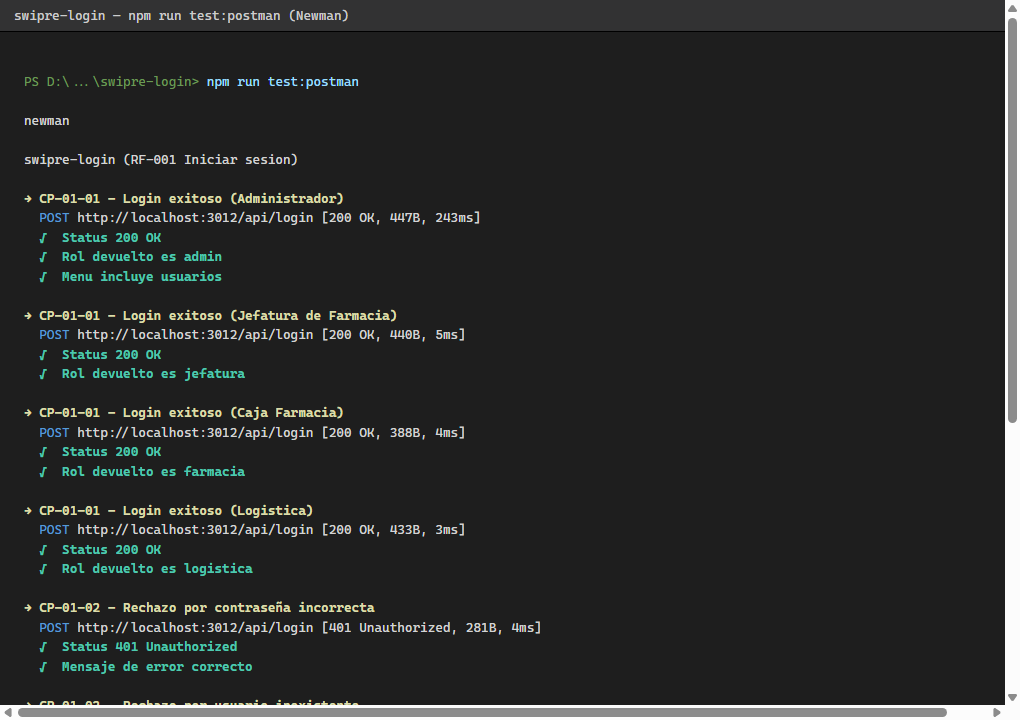
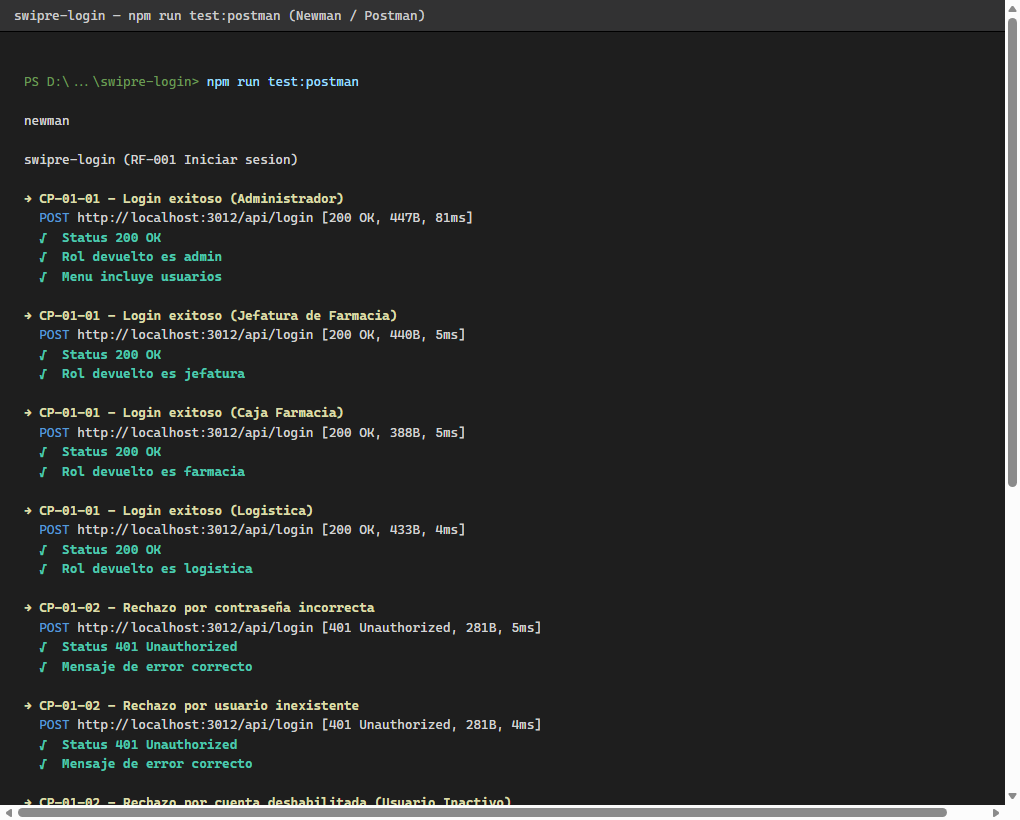
Completar RF-001: agregar CP-01-03 (autorizacion por rol, HTTP 403) con Vitest y Postman/Newman

Changed region(s): [[0.0, 0.0917, 0.5471, 0.9472], [0.0, 0.0, 0.9725, 0.0611], [0.0, 0.9472, 1.0, 1.0]]

diff --git a/evidencia/resultado-postman.html b/evidencia/resultado-postman.html
@@ -16,7 +16,7 @@
 </style>
 </head>
 <body>
-<div class="titlebar">swipre-login — npm run test:postman (Newman)</div>
+<div class="titlebar">swipre-login — npm run test:postman (Newman / Postman)</div>
 <div class="term">
 <span class="prompt">PS D:\...\swipre-login&gt;</span> <span class="cmd">npm run test:postman</span>
 
@@ -25,7 +25,7 @@ newman
 swipre-login (RF-001 Iniciar sesion)
 
 <span class="req">→ CP-01-01 - Login exitoso (Administrador)</span>
-  <span class="meth">POST</span> http://localhost:3012/api/login [200 OK, 447B, 243ms]
+  <span class="meth">POST</span> http://localhost:3012/api/login [200 OK, 447B, 81ms]
   <span class="ok">√  Status 200 OK</span>
   <span class="ok">√  Rol devuelto es admin</span>
   <span class="ok">√  Menu incluye usuarios</span>
@@ -36,17 +36,17 @@ swipre-login (RF-001 Iniciar sesion)
   <span class="ok">√  Rol devuelto es jefatura</span>
 
 <span class="req">→ CP-01-01 - Login exitoso (Caja Farmacia)</span>
-  <span class="meth">POST</span> http://localhost:3012/api/login [200 OK, 388B, 4ms]
+  <span class="meth">POST</span> http://localhost:3012/api/login [200 OK, 388B, 5ms]
   <span class="ok">√  Status 200 OK</span>
   <span class="ok">√  Rol devuelto es farmacia</span>
 
 <span class="req">→ CP-01-01 - Login exitoso (Logistica)</span>
-  <span class="meth">POST</span> http://localhost:3012/api/login [200 OK, 433B, 3ms]
+  <span class="meth">POST</span> http://localhost:3012/api/login [200 OK, 433B, 4ms]
   <span class="ok">√  Status 200 OK</span>
   <span class="ok">√  Rol devuelto es logistica</span>
 
 <span class="req">→ CP-01-02 - Rechazo por contraseña incorrecta</span>
-  <span class="meth">POST</span> http://localhost:3012/api/login [401 Unauthorized, 281B, 4ms]
+  <span class="meth">POST</span> http://localhost:3012/api/login [401 Unauthorized, 281B, 5ms]
   <span class="ok">√  Status 401 Unauthorized</span>
   <span class="ok">√  Mensaje de error correcto</span>
 
@@ -56,22 +56,30 @@ swipre-login (RF-001 Iniciar sesion)
   <span class="ok">√  Mensaje de error correcto</span>
 
 <span class="req">→ CP-01-02 - Rechazo por cuenta deshabilitada (Usuario Inactivo)</span>
-  <span class="meth">POST</span> http://localhost:3012/api/login [401 Unauthorized, 281B, 2ms]
+  <span class="meth">POST</span> http://localhost:3012/api/login [401 Unauthorized, 281B, 7ms]
   <span class="ok">√  Status 401 Unauthorized</span>
   <span class="ok">√  [HALLAZGO] backend usa mensaje generico, no el especifico de cuenta inactiva de la ficha CP-01-01</span>
 
-<span class="tbl">┌─────────────────────────┬───────────────────┬──────────────────┐
-│                         │          executed │           failed │
-├─────────────────────────┼───────────────────┼──────────────────┤
-│              iterations │                 1 │                0 │
-├─────────────────────────┼───────────────────┼──────────────────┤
-│                requests │                 7 │                0 │
-├─────────────────────────┼───────────────────┼──────────────────┤
-│            test-scripts │                 7 │                0 │
-├─────────────────────────┼───────────────────┼──────────────────┤
-│              assertions │                15 │                0 │
-├─────────────────────────┴───────────────────┴──────────────────┤
-│ total run duration: 872ms                                      │
+<span class="req">→ CP-01-03 - Acceso permitido a Gestión de Usuarios (rol Administrador)</span>
+  <span class="meth">GET</span> http://localhost:3012/api/usuarios [200 OK, 333B, 3ms]
+  <span class="ok">√  Status 200 OK</span>
+  <span class="ok">√  Modulo correcto</span>
+
+<span class="req">→ CP-01-03 - Acceso denegado a Gestión de Usuarios (rol Caja Farmacia)</span>
+  <span class="meth">GET</span> http://localhost:3012/api/usuarios [403 Forbidden, 300B, 5ms]
+  <span class="ok">√  Status 403 Forbidden (bloqueo a nivel de servidor)</span>
+  <span class="ok">√  Mensaje de error correcto</span>
+
+<span class="tbl">┌─────────────────────────┬──────────────────┬──────────────────┐
+│                         │         executed │           failed │
+├─────────────────────────┼──────────────────┼──────────────────┤
+│              iterations │                1 │                0 │
+├─────────────────────────┼──────────────────┼──────────────────┤
+│                requests │                9 │                0 │
+├─────────────────────────┼──────────────────┼──────────────────┤
+│            test-scripts │                9 │                0 │
+├─────────────────────────┼──────────────────┼──────────────────┤
+│              assertions │               19 │                0 │
 └──────────────────────────────────────────────────────────────────┘</span>
 </div>
 </body>

diff --git a/server.js b/server.js
@@ -1,7 +1,8 @@
 // Servidor minimo que expone la logica real (authController.js) como API HTTP,
-// para poder probarla con Postman/Newman (CP-01-01 exito, CP-01-02 error).
+// para poder probarla con Postman/Newman (CP-01-01 exito, CP-01-02 error, CP-01-03 acceso por rol).
 import express from 'express';
 import { login } from './src/authController.js';
+import { requireRole } from './src/authMiddleware.js';
 
 const app = express();
 app.use(express.json());
@@ -9,6 +10,16 @@ app.use(express.json());
 app.post('/api/login', (req, res) => {
   const { status, body } = login(req.body || {});
   res.status(status).json(body);
+});
+
+// CP-01-03: modulo "Gestion de Usuarios", restringido solo al rol Administrador.
+// El rol se lee del header x-user-role (simula el rol resuelto desde el token de
+// sesion), igual que hace backend/controllers/medicamentoController.js con remove().
+const soloAdmin = requireRole(['admin']);
+app.get('/api/usuarios', (req, res) => {
+  const deniego = soloAdmin(req.headers['x-user-role']);
+  if (deniego) return res.status(deniego.status).json(deniego.body);
+  res.status(200).json({ modulo: 'Gestión de Usuarios', usuarios: [{ id: 1, username: 'admin.mopgimed', role: 'admin' }] });
 });
 
 const PORT = process.env.PORT || 3012;

diff --git a/tests/autorizacion.test.js b/tests/autorizacion.test.js
@@ -1,0 +1,21 @@
+import { describe, it, expect } from 'vitest';
+import { requireRole } from '../src/authMiddleware.js';
+
+describe('CP-01-03 - Validación de acceso controlado por rol tras autenticación (Prueba Unitaria)', () => {
+  const soloAdmin = requireRole(['admin']);
+
+  it('permite el acceso cuando el rol es Administrador', () => {
+    expect(soloAdmin('admin')).toBeNull();
+  });
+
+  it('deniega el acceso con HTTP 403 cuando el rol es Caja Farmacia', () => {
+    const resultado = soloAdmin('farmacia');
+    expect(resultado.status).toBe(403);
+    expect(resultado.body.error).toBe('No tienes permiso para acceder a este módulo.');
+  });
+
+  it('deniega el acceso con HTTP 403 cuando el rol es Jefatura', () => {
+    const resultado = soloAdmin('jefatura');
+    expect(resultado.status).toBe(403);
+  });
+});

diff --git a/src/authMiddleware.js b/src/authMiddleware.js
@@ -1,0 +1,16 @@
+// Middleware de autorizacion por rol para RF-001 / CP-01-03. Este control NO existe
+// todavia en el backend real (backend/routes/users.js no tiene ningun chequeo de rol),
+// asi que aqui se implementa tal como lo describe la ficha CP-01-03: si el rol del
+// solicitante no esta en la lista permitida, se deniega con HTTP 403 a nivel de
+// servidor (no solo ocultando el boton en la UI).
+
+function requireRole(allowedRoles) {
+  return function (role) {
+    if (!allowedRoles.includes(role)) {
+      return { status: 403, body: { error: 'No tienes permiso para acceder a este módulo.' } };
+    }
+    return null; // null = acceso permitido, continua el handler real
+  };
+}
+
+export { requireRole };
